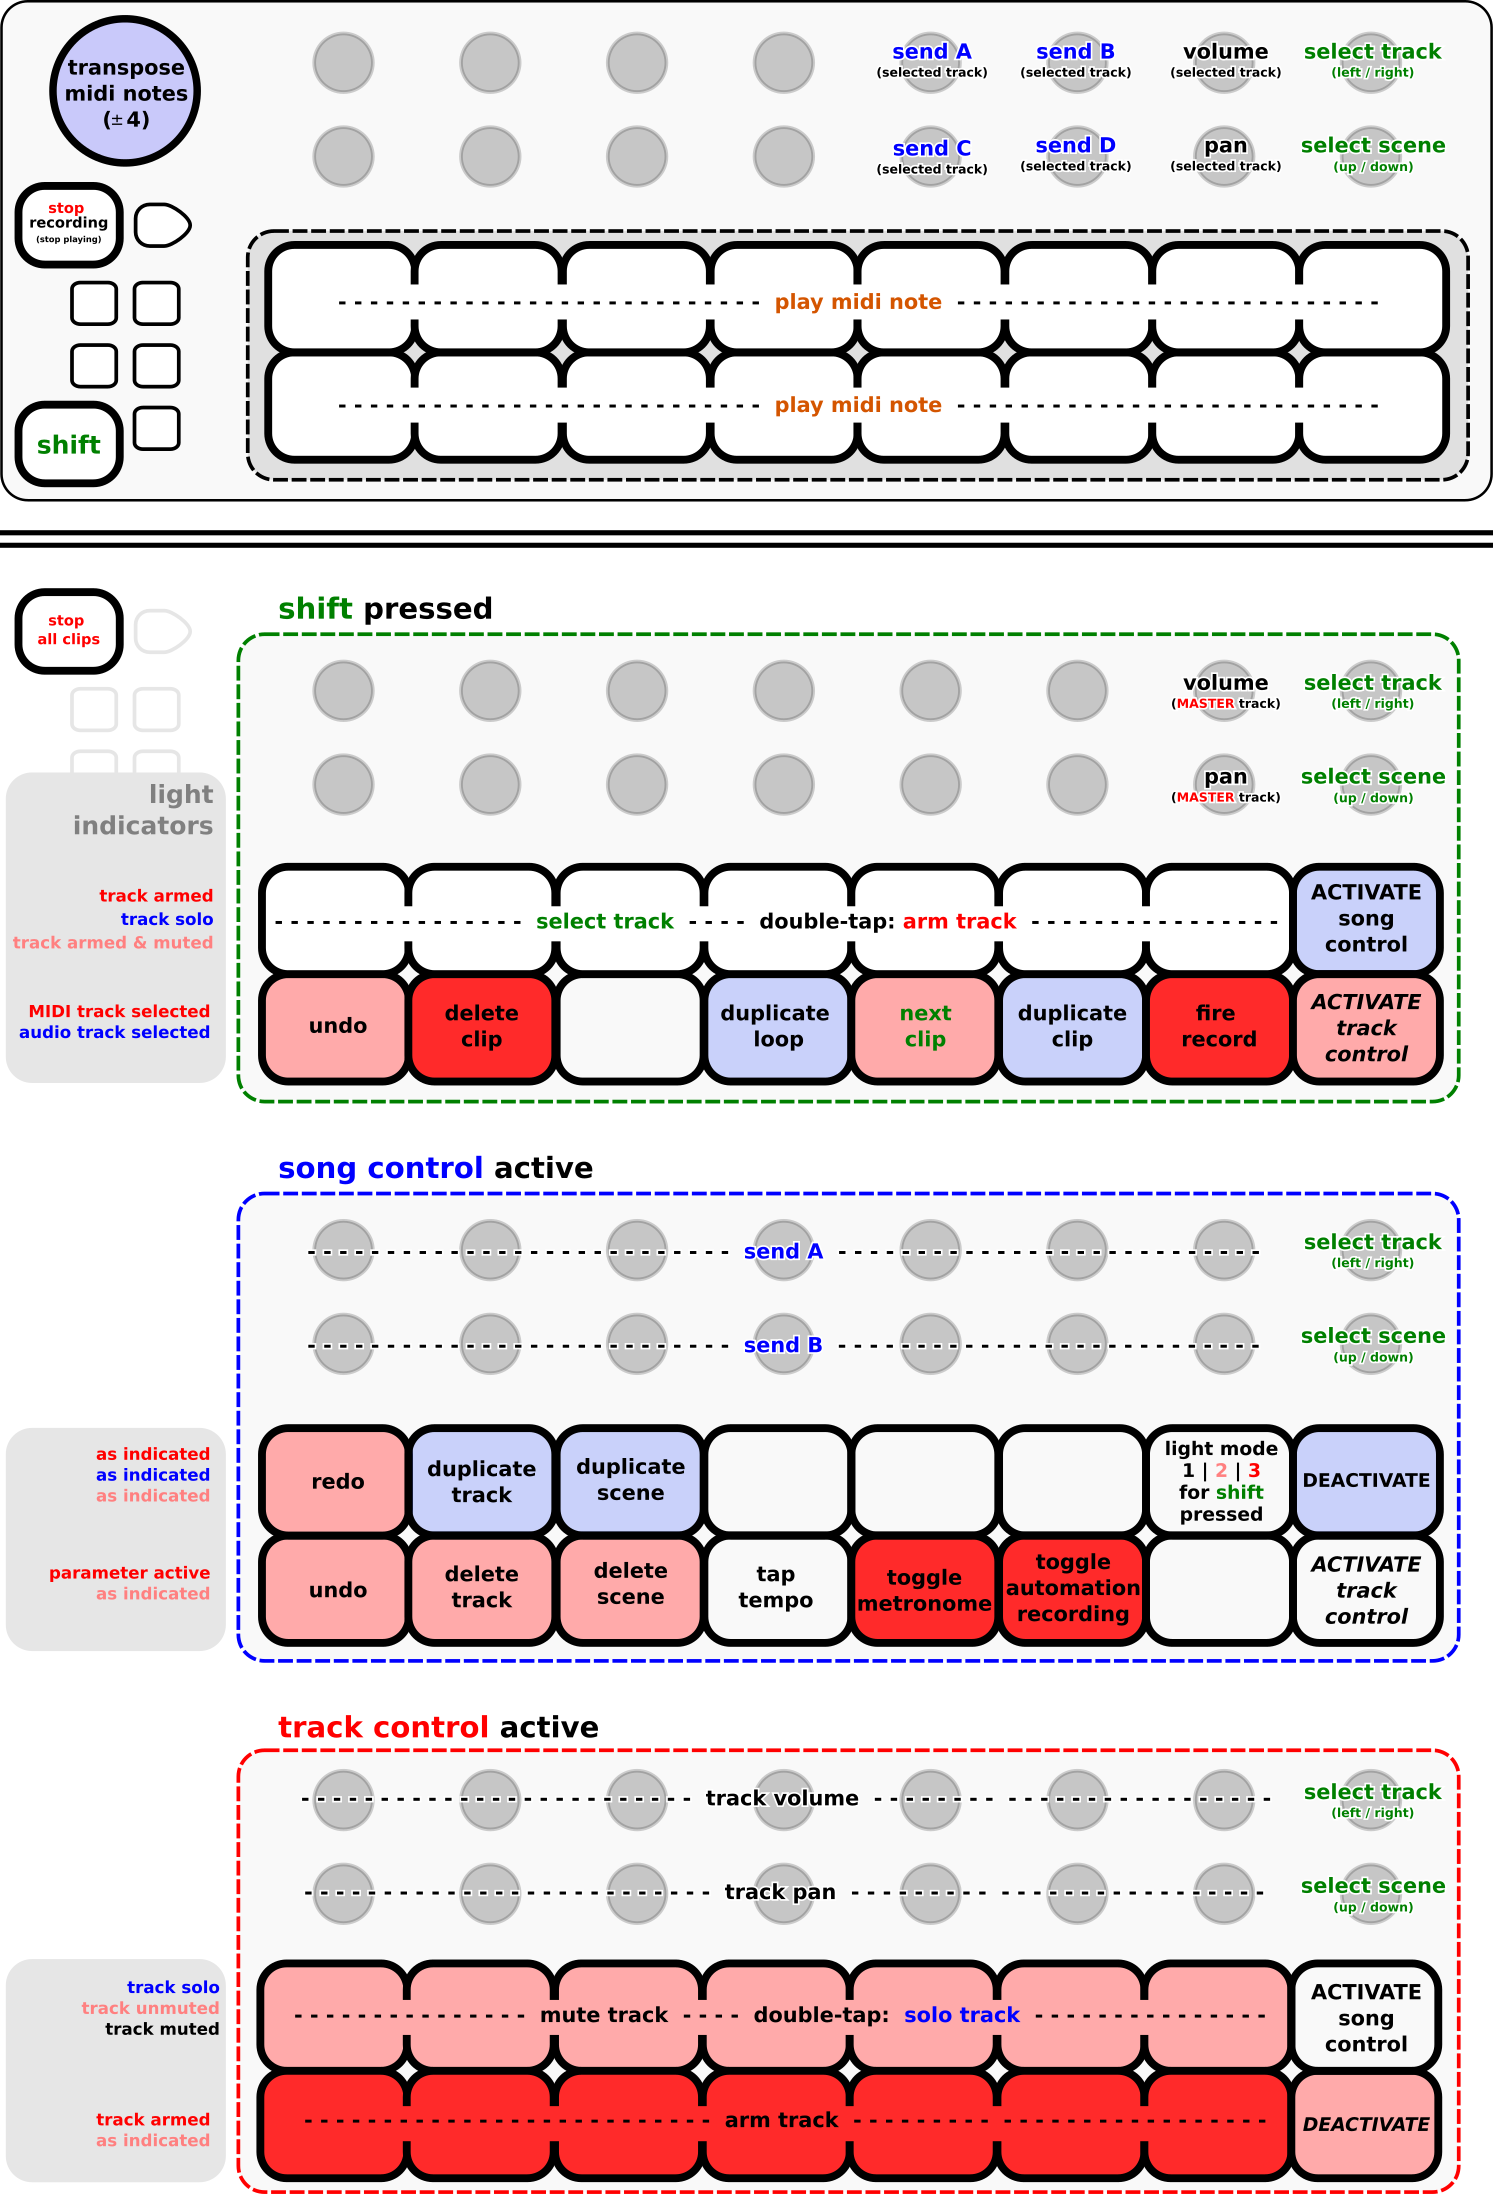
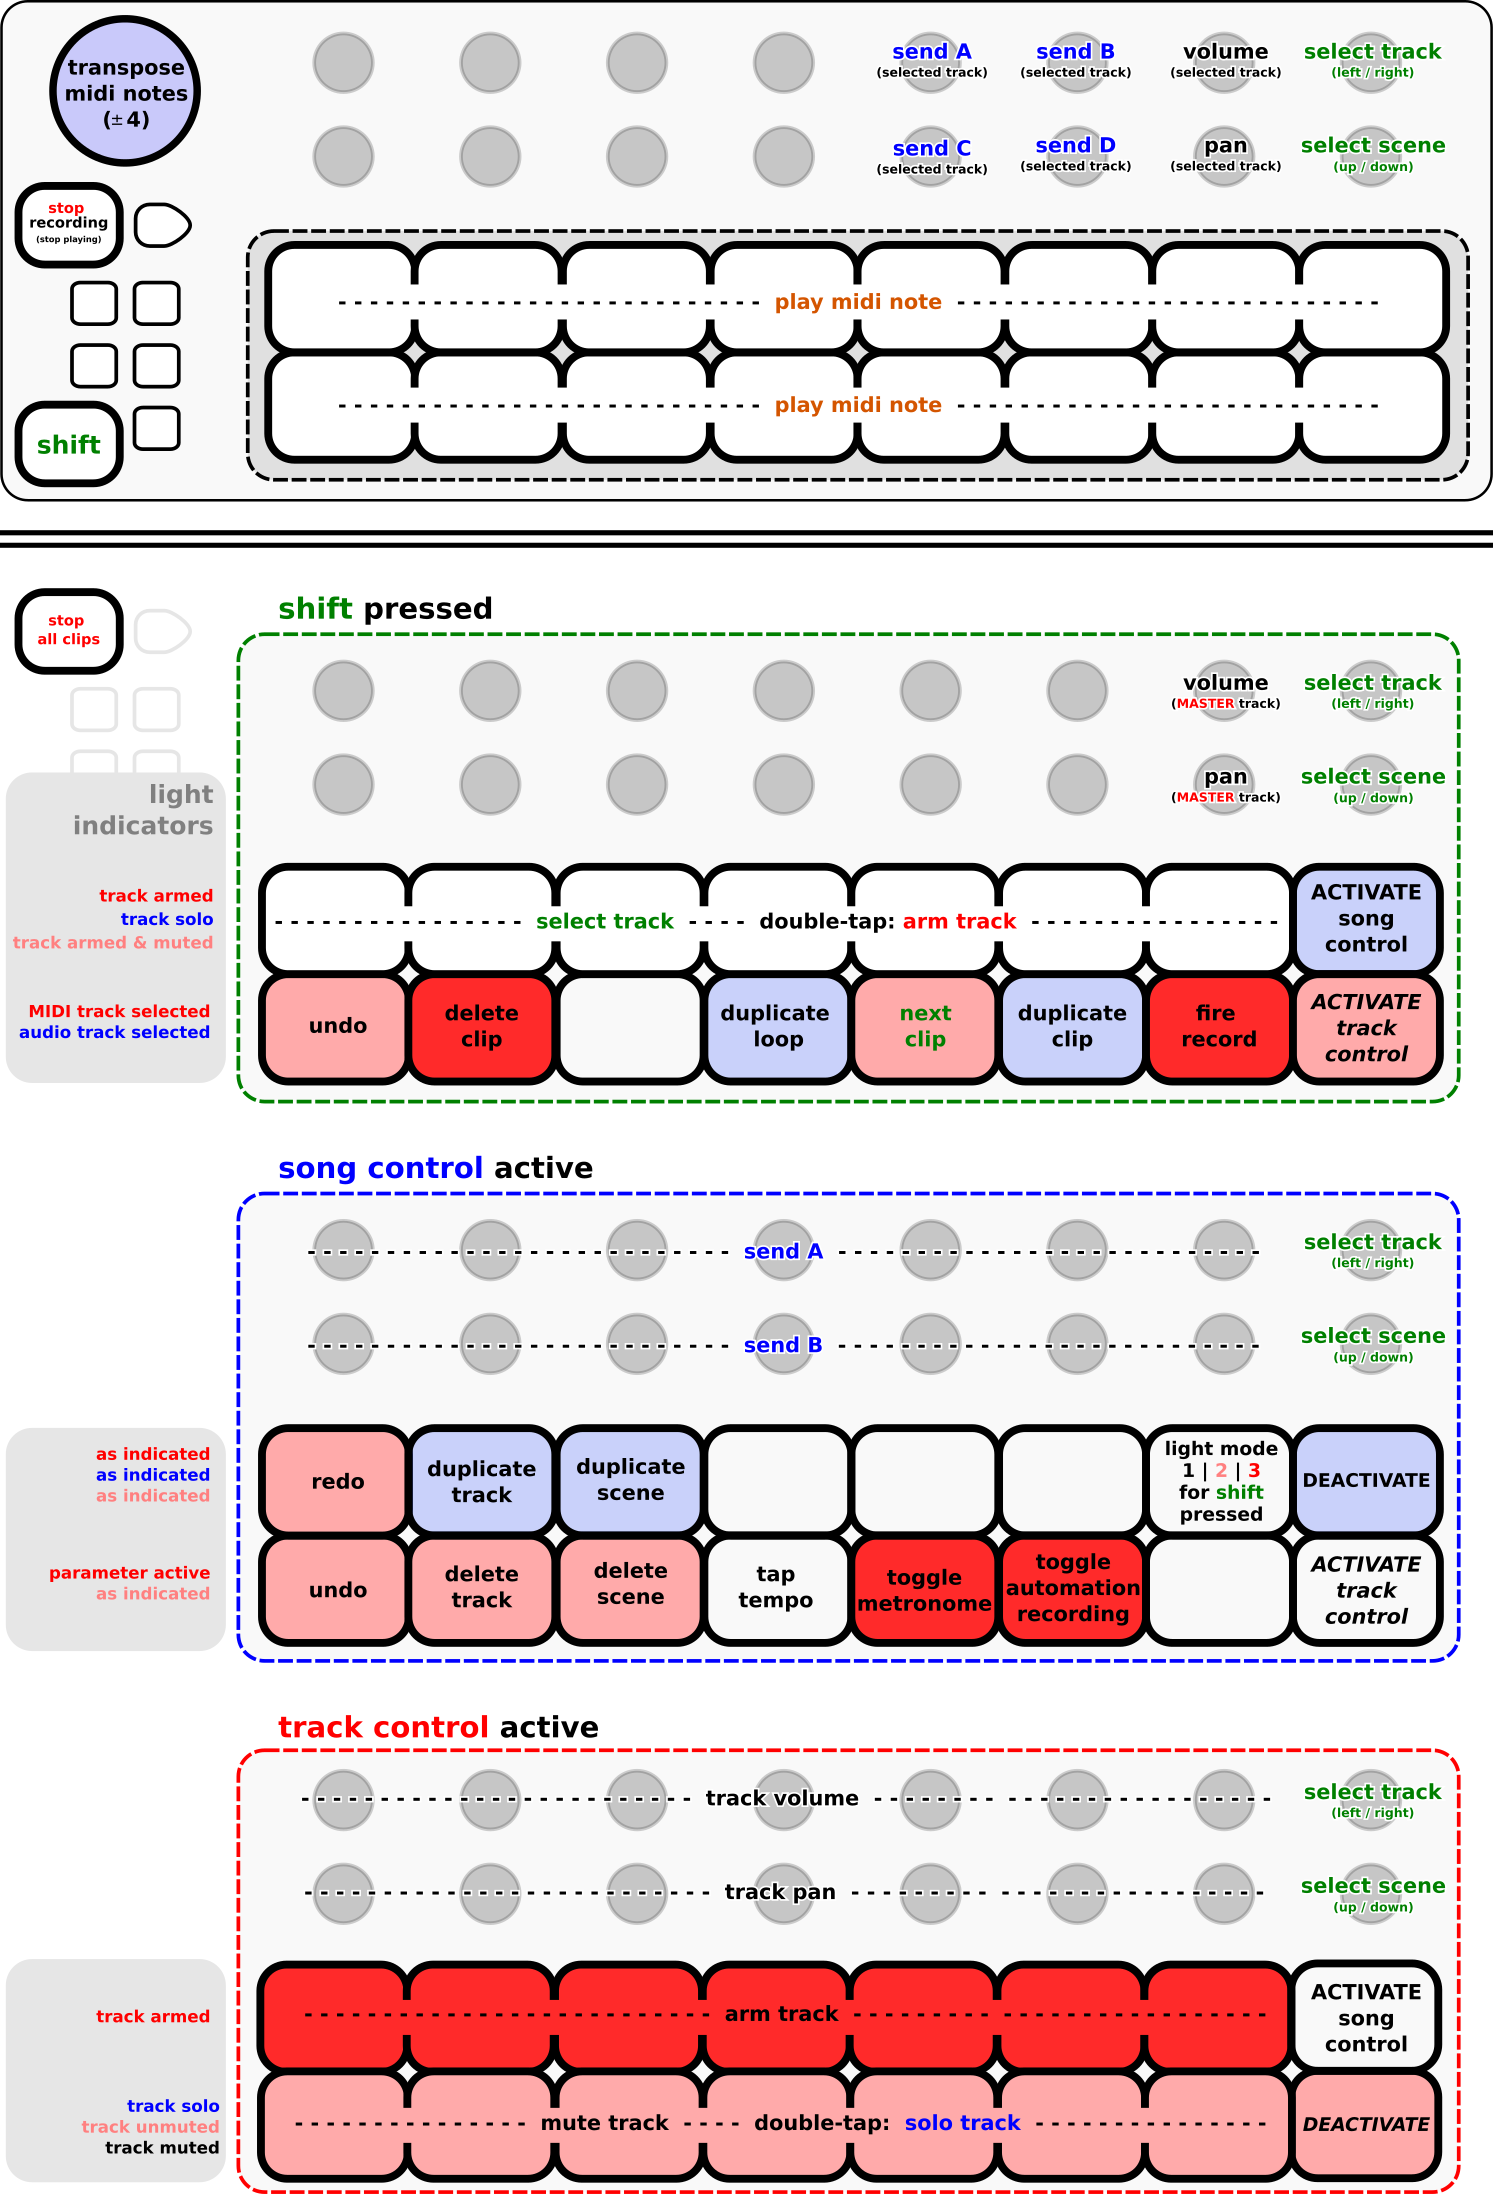
exchange rows in shift_fixed to have consistent lights make audio-tracks red instead of magenta update assignments image

Changed region(s): [[0.0616, 0.8678, 0.8627, 0.9918]]

diff --git a/QControlComponent.py b/QControlComponent.py
@@ -91,18 +91,18 @@ class QControlComponent(BaseComponent):
                     continue
 
                 if track.solo and not track.mute:
-                    bdict[button_up] = 'blue'
+                    bdict[button_down] = 'blue'
                 elif track.mute and track.solo:
-                    bdict[button_up] = 'red'
+                    bdict[button_down] = 'red'
                 elif track.mute:
-                    bdict[button_up] = 'black'
+                    bdict[button_down] = 'black'
                 else:
-                    bdict[button_up] = 'magenta'
+                    bdict[button_down] = 'magenta'
 
                 if track.arm:
-                    bdict[button_down] = 'red'
+                    bdict[button_up] = 'red'
                 else:
-                    bdict[button_down] = 'black'
+                    bdict[button_up] = 'black'
 
         elif self._control_layer:
             bdict[16] = 'black'
@@ -175,7 +175,7 @@ class QControlComponent(BaseComponent):
                             if i - self.npads == self.selected_track_index%self.npads + 2:
                                 # indicate selected track
                                 if self.selected_track.has_audio_input:
-                                    bdict[i] = 'magenta'
+                                    bdict[i] = 'red'
                                 else:
                                     bdict[i] = 'blue'
                             else:
@@ -273,7 +273,7 @@ class QControlComponent(BaseComponent):
     def _1_listener(self, value):
         if value > 0:
             if self._shift_fixed:
-                self._mute_solo_track(0)
+                self._arm_track(0)
             elif self._control_layer:
                 self._redo()
             elif self._shift_pressed:
@@ -284,7 +284,7 @@ class QControlComponent(BaseComponent):
     def _2_listener(self, value):
         if value > 0:
             if self._shift_fixed:
-                self._mute_solo_track(1)
+                self._arm_track(1)
             elif self._control_layer:
                 self._duplicate_track()
             elif self._shift_pressed:
@@ -295,7 +295,7 @@ class QControlComponent(BaseComponent):
     def _3_listener(self, value):
         if value > 0:
             if self._shift_fixed:
-                self._mute_solo_track(2)
+                self._arm_track(2)
             elif self._control_layer:
                 self._duplicate_scene()
             elif self._shift_pressed:
@@ -306,7 +306,7 @@ class QControlComponent(BaseComponent):
     def _4_listener(self, value):
         if value > 0:
             if self._shift_fixed:
-                self._mute_solo_track(3)
+                self._arm_track(3)
             elif self._shift_pressed:
                 self._select_track(3)
         else:
@@ -315,7 +315,7 @@ class QControlComponent(BaseComponent):
     def _5_listener(self, value):
         if value > 0:
             if self._shift_fixed:
-                self._mute_solo_track(4)
+                self._arm_track(4)
             elif self._shift_pressed:
                 self._select_track(4)
         else:
@@ -324,7 +324,7 @@ class QControlComponent(BaseComponent):
     def _6_listener(self, value):
         if value > 0:
             if self._shift_fixed:
-                self._mute_solo_track(5)
+                self._arm_track(5)
             elif self._control_layer:
                 self._toggle_detail_clip_view()
             elif self._shift_pressed:
@@ -335,7 +335,7 @@ class QControlComponent(BaseComponent):
     def _7_listener(self, value):
         if value > 0:
             if self._shift_fixed:
-                self._mute_solo_track(6)
+                self._arm_track(6)
             elif self._control_layer:
                 self._toggle_shift_lights()
             elif self._shift_pressed:
@@ -377,7 +377,7 @@ class QControlComponent(BaseComponent):
     def _9_listener(self, value):
         if value > 0:
             if self._shift_fixed:
-                self._arm_track(0)
+                self._mute_solo_track(0)
             elif self._control_layer:
                 self._undo()
             elif self._shift_pressed:
@@ -388,7 +388,7 @@ class QControlComponent(BaseComponent):
     def _10_listener(self, value):
         if value > 0:
             if self._shift_fixed:
-                self._arm_track(1)
+                self._mute_solo_track(1)
             elif self._control_layer:
                 self._delete_track()
             elif self._shift_pressed:
@@ -399,7 +399,7 @@ class QControlComponent(BaseComponent):
     def _11_listener(self, value):
         if value > 0:
             if self._shift_fixed:
-                self._arm_track(2)
+                self._mute_solo_track(2)
             elif self._control_layer:
                 self._delete_scene()
         else:
@@ -408,7 +408,7 @@ class QControlComponent(BaseComponent):
     def _12_listener(self, value):
         if value > 0:
             if self._shift_fixed:
-                self._arm_track(3)
+                self._mute_solo_track(3)
             elif self._control_layer:
                 self._tap_tempo()
             elif self._shift_pressed:
@@ -419,7 +419,7 @@ class QControlComponent(BaseComponent):
     def _13_listener(self, value):
         if value > 0:
             if self._shift_fixed:
-                self._arm_track(4)
+                self._mute_solo_track(4)
             elif self._control_layer:
                 self._toggle_metronome()
             elif self._shift_pressed:
@@ -430,7 +430,7 @@ class QControlComponent(BaseComponent):
     def _14_listener(self, value):
         if value > 0:
             if self._shift_fixed:
-                self._arm_track(5)
+                self._mute_solo_track(5)
             if self._control_layer:
                 self._toggle_automation()
             elif self._shift_pressed:
@@ -441,7 +441,7 @@ class QControlComponent(BaseComponent):
     def _15_listener(self, value):
         if value > 0:
             if self._shift_fixed:
-                self._arm_track(6)
+                self._mute_solo_track(6)
             elif self._shift_pressed:
 
                 self._fire_record()
